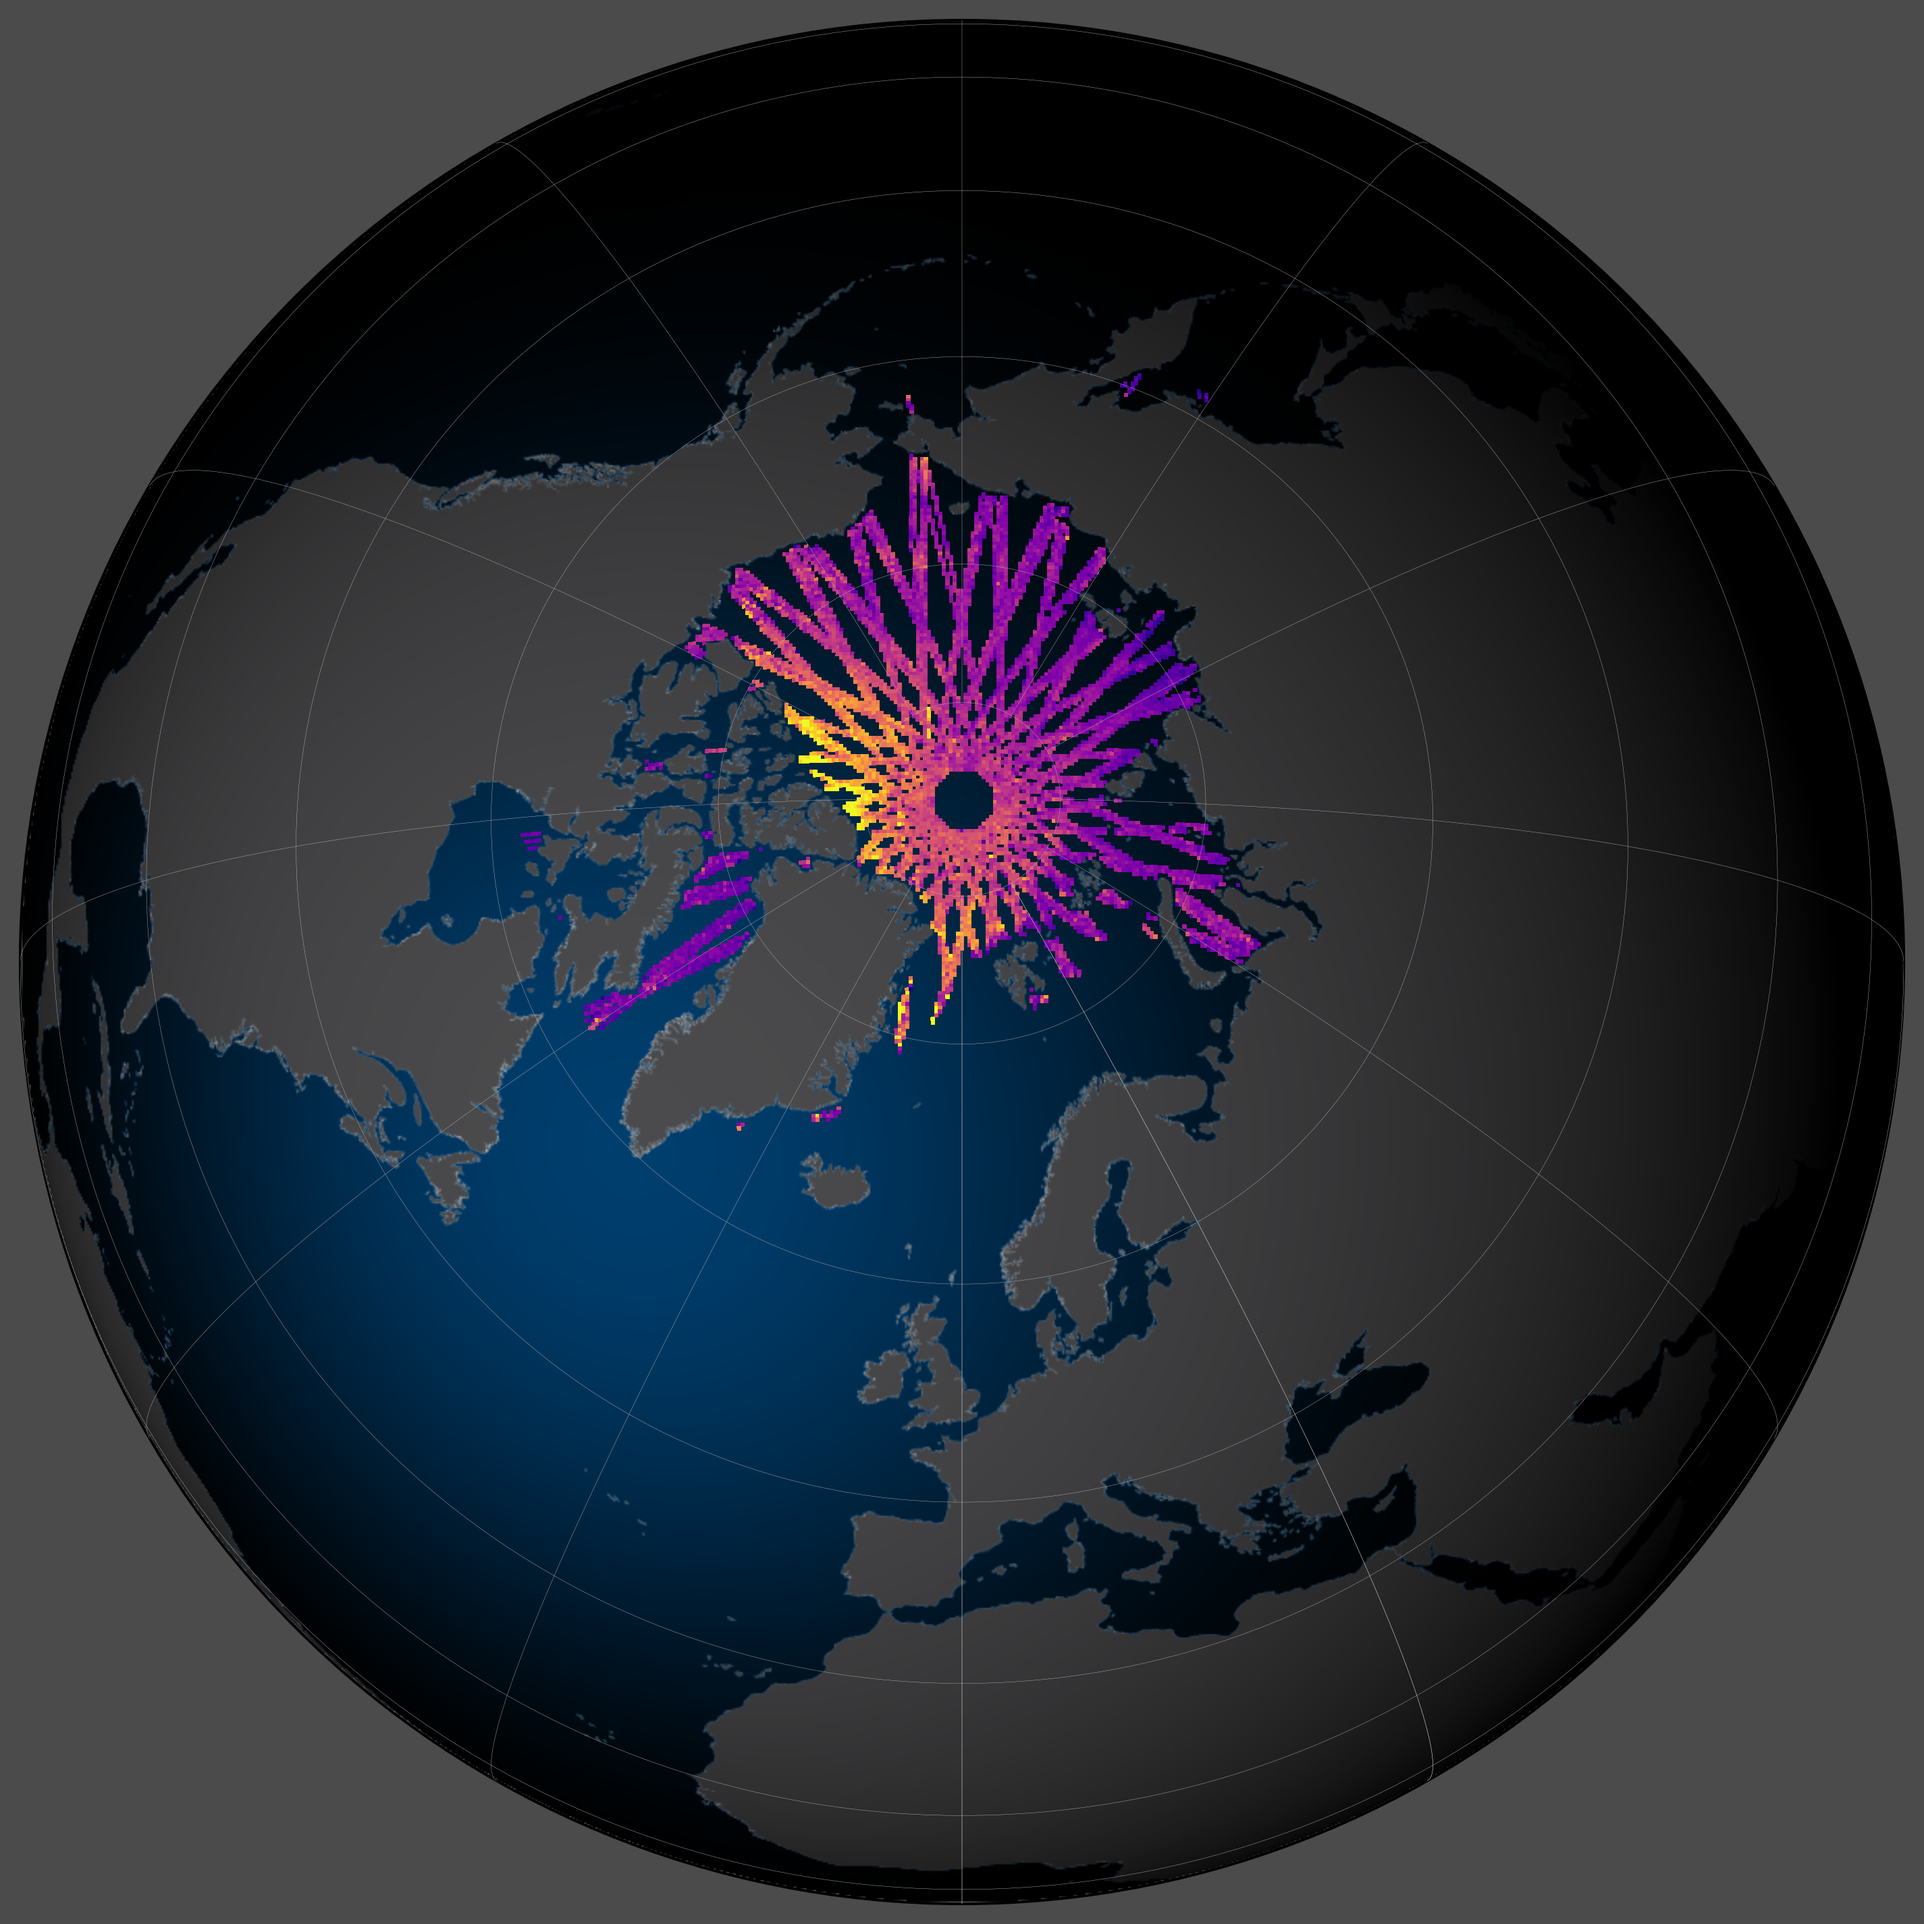
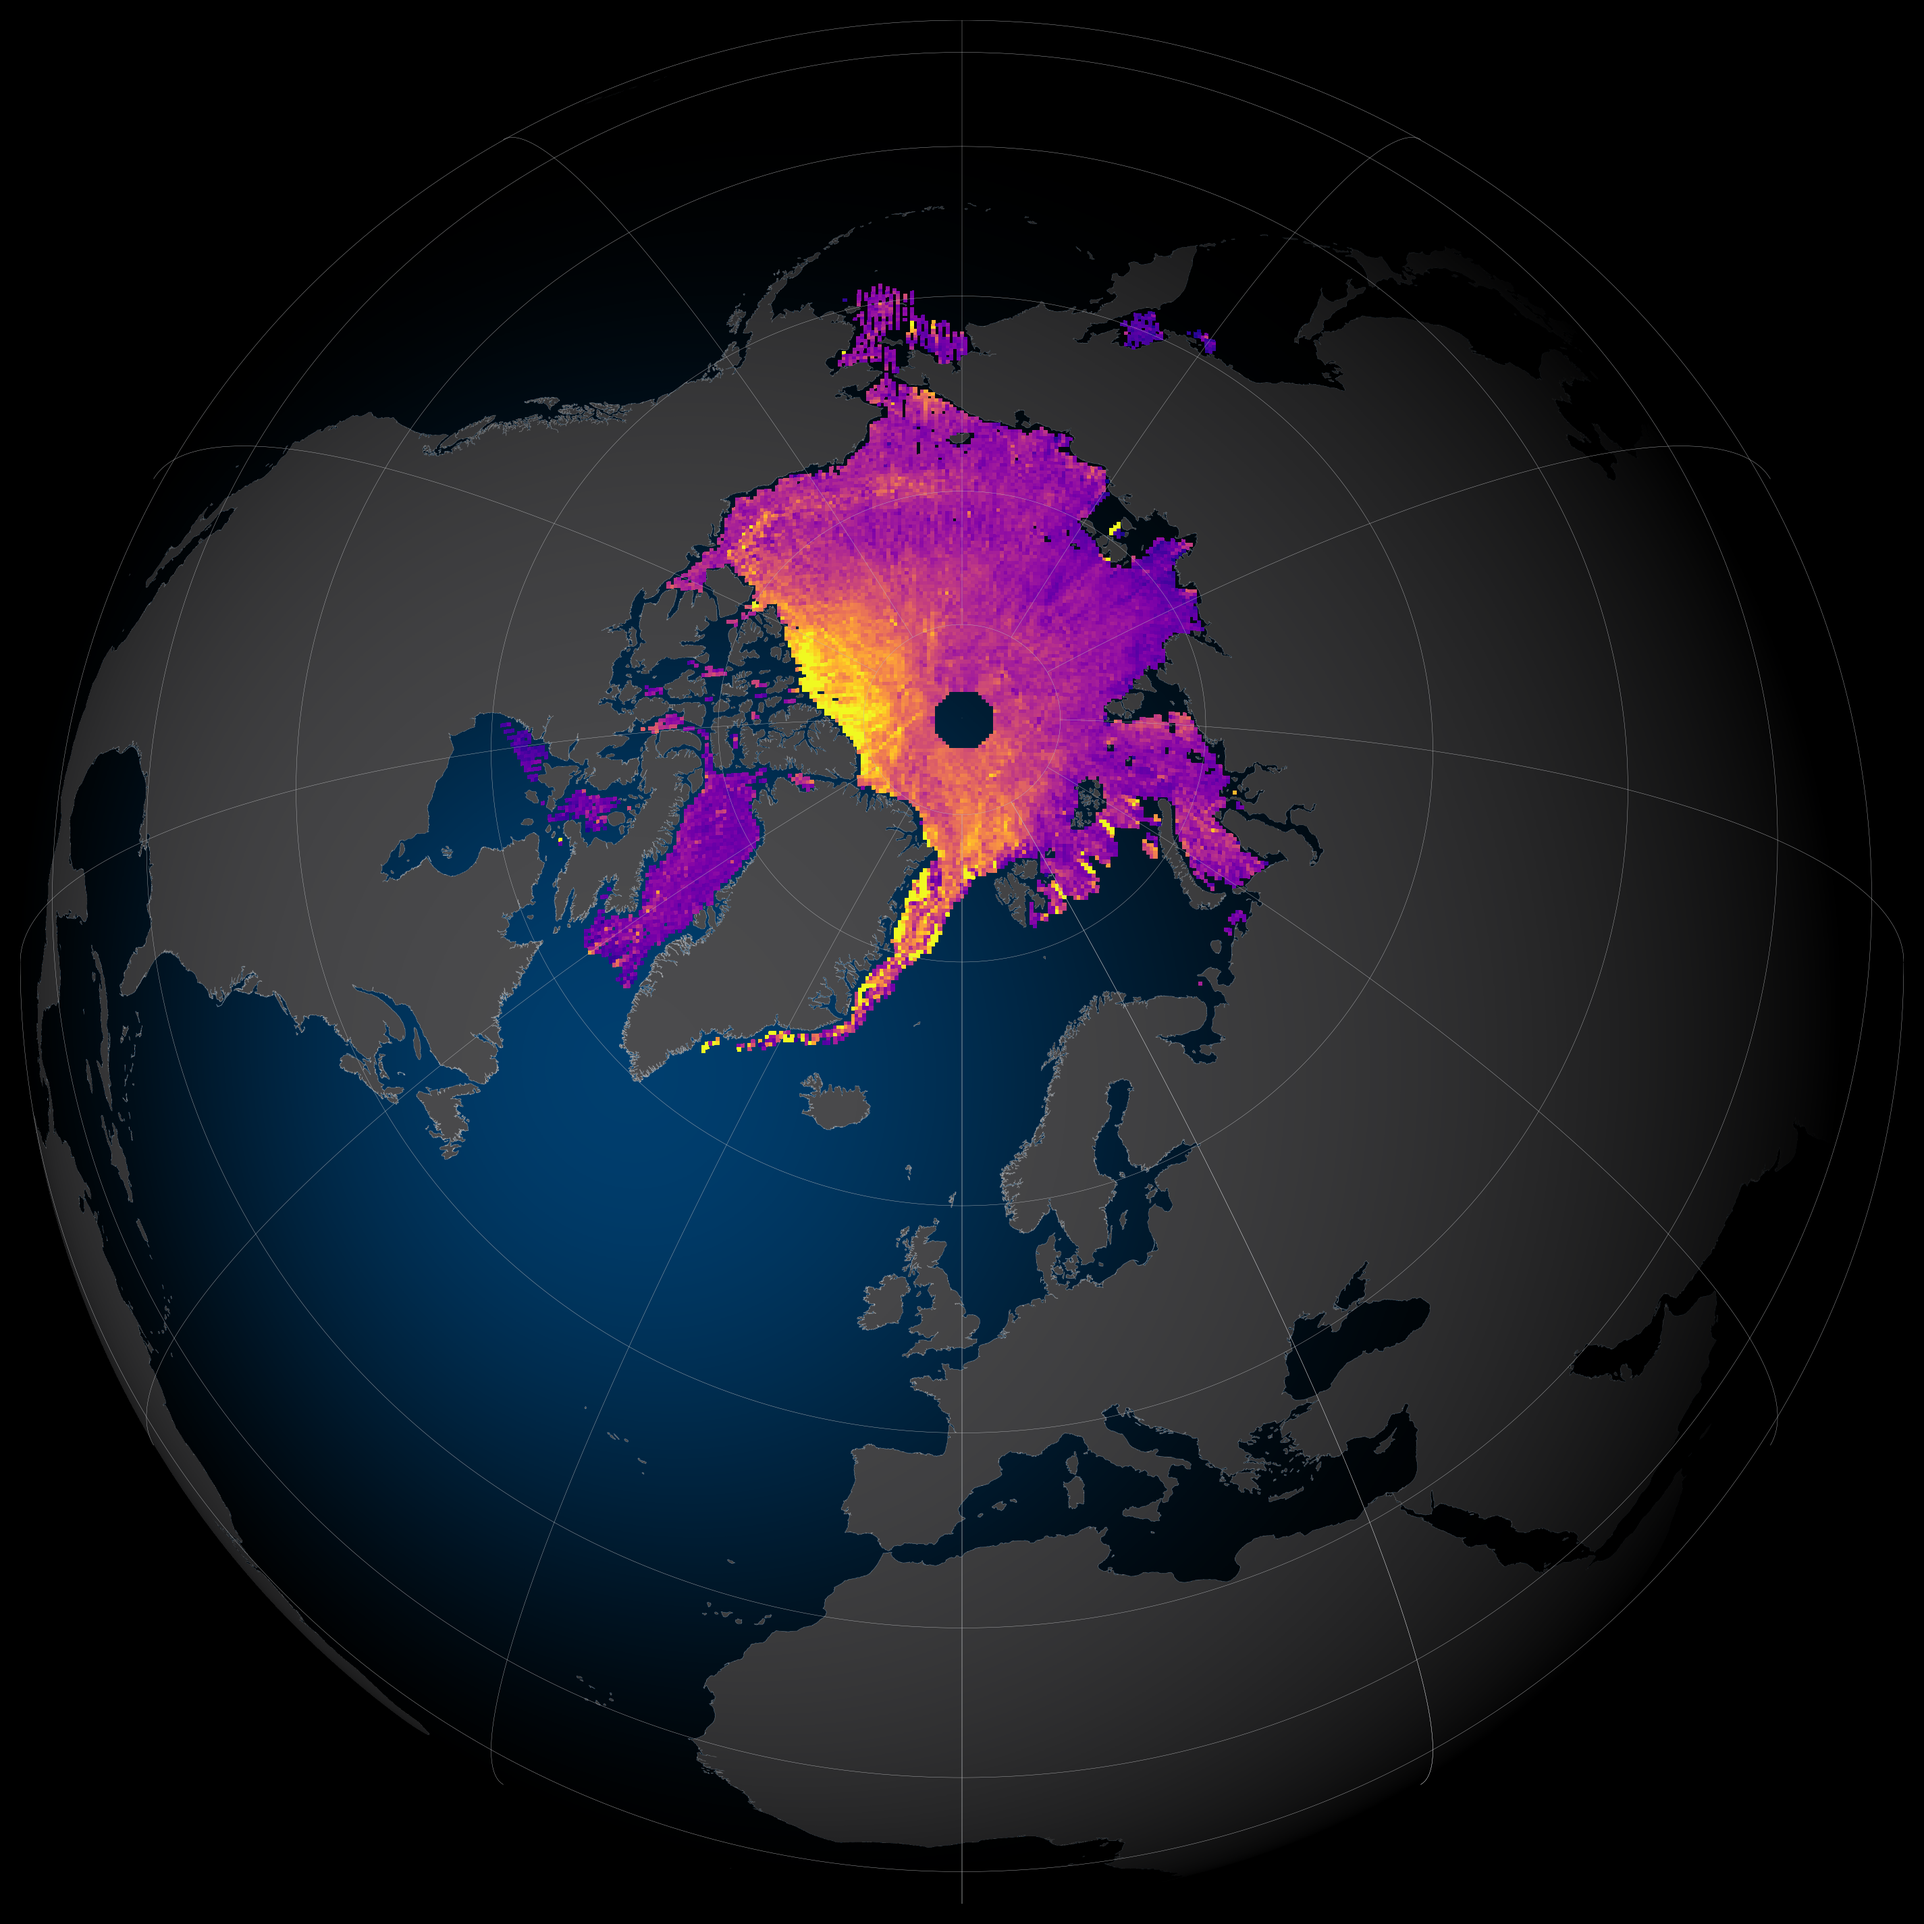
[sandbox] Fine tuning of the grid visualization

diff --git a/sandbox/grid_visualization_presentation.py b/sandbox/grid_visualization_presentation.py
@@ -9,9 +9,12 @@ Created on Mon Mar 21 20:20:08 2016
 """
 
 import numpy as np
+import matplotlib as mpl
 import matplotlib.pyplot as plt
 from matplotlib.collections import LineCollection
+from matplotlib.ticker import MultipleLocator
 from mpl_toolkits.basemap import Basemap
+from mpl_toolkits.axes_grid1.inset_locator import inset_axes
 
 import os
 from PIL import Image
@@ -31,7 +34,7 @@ from matplotlib.image import pil_to_array
 
 def grid_visualization_presentation():
 
-    create_background_image()
+    # create_background_image()
     grid = get_grid()
     create_map(grid)
 
@@ -44,8 +47,9 @@ def get_grid():
         "ellps": "WGS84",
         "datum": "WGS84",
         "units": "m"}
-    nc_file = os.path.join(r"D:\awi\product\optimal_interp\v1",
-                           r"cs2_smos_ice_thickness_20150302_20150308.nc")
+    nc_file = os.path.join(
+        r"G:\altim\product\altimetry\cs2awi\baseline-b\grid",
+        r"cs2awi_nh_201503.nc")
     grid = ReadNC(nc_file)
     grid.pcolor = GeoPcolorGrid(grid.longitude, grid.latitude)
     grid.pcolor.calc_from_proj(**projection)
@@ -62,7 +66,7 @@ def create_background_image():
     m.fillcontinents(color='#4b4b4d', lake_color='#4b4b4d')
     coastlines = get_landcoastlines(m, color="#bcbdbf", linewidth=0.05)
     plt.gca().add_collection(coastlines)
-    plt.savefig("temp.png", dpi=600)
+    plt.savefig("temp.png", dpi=1200)
     plt.close()
 
     background = Image.open("temp.png")
@@ -79,7 +83,7 @@ def create_background_image():
 
     foreground = Image.fromarray(foreground_array)
     background.paste(foreground, (0, 0), foreground)
-    background.save('temp2.png', 'PNG')
+    background.save('temp2.png', 'PNG', facecolor="#000000")
 
 
 def get_foreground_array(size, cutoff=0.5, color=[0, 0, 0], alpha_ref=150):
@@ -98,7 +102,7 @@ def get_foreground_array(size, cutoff=0.5, color=[0, 0, 0], alpha_ref=150):
 
 
 def create_map(grid):
-    lat_0 = 80
+    lat_0 = 75
     lon_0 = 0
     h = 6000.
     grid_keyw = {"dashes": (None, None), "color": "#bcbdbf",
@@ -106,14 +110,14 @@ def create_map(grid):
 #    wm = plt.get_current_fig_manager()
 #    wm.
     figure = plt.figure("Grid Data Visualization",  figsize=(12, 12),
-               facecolor="#4b4b4b")
+                        facecolor="#000000")
 #    m = Basemap(projection='nsper', lon_0=lon_0, lat_0=lat_0,
 #                satellite_height=h*1000., resolution='l')
     m = Basemap(projection='ortho', lon_0=lon_0, lat_0=lat_0,
                 resolution='l')
     m.warpimage("temp2.png", scale=1.0, zorder=100)
     x, y = m(grid.pcolor.longitude, grid.pcolor.latitude)
-    data = getattr(grid, "cs2_thickness")
+    data = getattr(grid, "sea_ice_thickness")
     dataMask = np.isnan(data)
     data = np.ma.masked_where(dataMask, data)
     m.pcolor(x, y, data, cmap=plt.get_cmap("plasma"), vmin=0, vmax=5,
@@ -126,13 +130,13 @@ def create_map(grid):
                 bbox_inches="tight")
 
     figure_buffer = Image.open("temp3.png")
-    width = int(0.6*figure_buffer.size[0])
-    height = int(0.6*figure_buffer.size[1])
-
-    xoff = int(0.2*figure_buffer.size[0])
-    yoff = int(0.1*figure_buffer.size[1])
-    print xoff, width
-    print yoff, height
+    width_fract, height_fract = 0.60, 0.60
+    width = int(width_fract*figure_buffer.size[0])
+    height = int(height_fract*figure_buffer.size[1])
+    xpad, ypad = 0.40*(1.-width_fract), 0.5*(1.-height_fract)
+    ypad -= 0.4*(1.-height_fract)
+    xoff = int(xpad*figure_buffer.size[0])
+    yoff = int(ypad*figure_buffer.size[1])
     x1, x2 = xoff, xoff+width
     y1, y2 = yoff, yoff+height
 
@@ -142,6 +146,8 @@ def create_map(grid):
     import matplotlib.patches as patches
 
     plt.figure(figsize=(12, 12), facecolor="#4b4b4b")
+    plt.gca().set_position([0, 0, 1, 1])
+
     ax = plt.gca()
     im = ax.imshow(cropped_figure)
 #    patch = patches.Circle((400, 400), radius=400, transform=ax.transData)
@@ -152,8 +158,49 @@ def create_map(grid):
     patch = patches.FancyBboxPatch(
         [x, y], dx, dy,
         boxstyle=patches.BoxStyle("Round", pad=pad), transform=ax.transData)
-    im.set_clip_path(patch)
+    # im.set_clip_path(patch)
+
+    plt.annotate("CryoSat-2", (0.05, 0.92), xycoords="axes fraction",
+                 color="#bcbdbf", fontsize=32)
+    plt.annotate("March 2015", (0.05, 0.88), xycoords="axes fraction",
+                 color="#bcbdbf", fontsize=24)
     plt.axis('off')
+
+
+    sm = plt.cm.ScalarMappable(cmap=plt.get_cmap("plasma"),
+                               norm=plt.Normalize(vmin=0, vmax=5))
+    # fake up the array of the scalar mappable. Urgh...
+    sm._A = []
+    ax = plt.gca()
+    cb_ax_kwargs = {'loc': 3,
+                    'bbox_to_anchor': (0.05, 0.83, 1, 1),
+                    'width': "30%",
+                    'height': "2%",
+                    'bbox_transform': ax.transAxes,
+                    'borderpad': 0}
+    ticks = MultipleLocator(1)
+    axins = inset_axes(ax, **cb_ax_kwargs)
+    cb = plt.colorbar(sm, cax=axins, ticks=ticks, orientation="horizontal")
+    cl = plt.getp(cb.ax, 'xmajorticklabels')
+    plt.setp(cl, fontsize=22, color="#bcbdbf")
+    cb.set_label("Sea Ice Thickness (m)", fontsize=22, color="#bcbdbf")
+    cb.outline.set_linewidth(0.2)
+    cb.outline.set_alpha(0.0)
+    for t in cb.ax.get_yticklines():
+        t.set_color("1.0")
+    cb.ax.tick_params('both', length=0.1, which='major', pad=10)
+    plt.sca(ax)
+
+    # Add the plane marker at the last point.
+    from matplotlib.offsetbox import OffsetImage, AnnotationBbox
+    logo = np.array(Image.open('AWI_Logo_Weiss_RGB.png'))
+    im = OffsetImage(logo, zoom=0.20, resample=True, alpha=0.75)
+    ab = AnnotationBbox(im, (0.95, 0.89), xycoords='axes fraction',
+                        frameon=False, box_alignment=(1, 0))
+    # Get the axes object from the basemap and add the AnnotationBbox artist
+    plt.gca().add_artist(ab)
+
+
     plt.show()
 
 
@@ -211,7 +258,7 @@ def get_diffuse_intensity(r0, r1, k=1.0, b=1, n=4):
     intensity = k*np.cos(b*angle)**n
     if intensity < 0:
         intensity = 0
-    return intensity# , angle
+    return intensity  # , angle
 
 
 def get_landcoastlines(basemap, color="0.0", linewidth=1):
@@ -285,4 +332,8 @@ def angle_between(v1, v2):
 
 
 if __name__ == "__main__":
+    mpl.rcParams['font.sans-serif'] = "arial"
+    for target in ["xtick.color", "ytick.color", "axes.edgecolor",
+                   "axes.labelcolor"]:
+        mpl.rcParams[target] = "#4b4b4d"
     grid_visualization_presentation()

diff --git a/sandbox/test_sqlite3_file_database.py b/sandbox/test_sqlite3_file_database.py
@@ -17,16 +17,20 @@ Filenaming: "pysiral_l1bdata_inventory.db"
 Main rows that need to be in the database
 
 Table: SOURCE_FILES
-Year	           Year of start time (int)
-Month            Month of start time (int)
-Week             Week number of start time (int)
-Day              Day of start time (int)
+filename         serves also as unique identifier (str)
+year	           Year of start time (int)
+month            Month of start time (int)
+week             Week number of start time (int)
+day              Day of start time (int)
+orbit            orbit number (int)
+cycle            cycle number (int)
 day_overlap      flag that indicating data coverage on the next day (bool)
 region_id        id for region (see table REGION) (int)
 radar_mode_id    id for radar mode (see table RADAR_MODE) (int)
 mission_id       id for mission (see table MISSION) (int)
 version          version id of altimeter source data (str)
 path             relative link to file (str)
+
 
 
 Table: REGION
